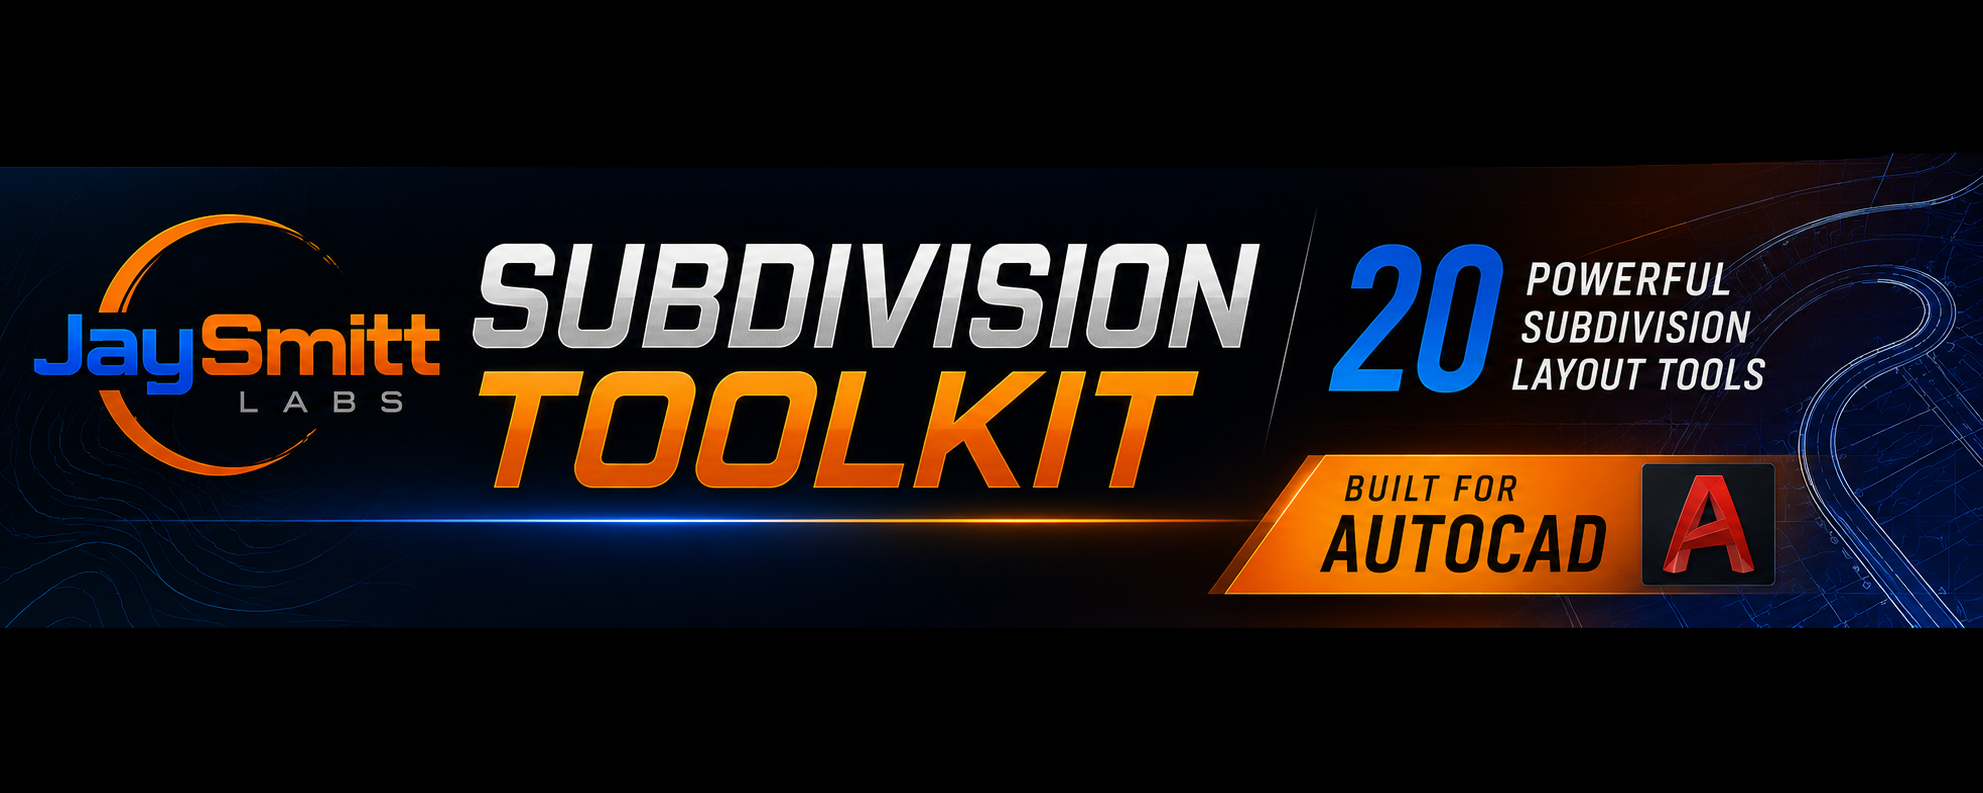
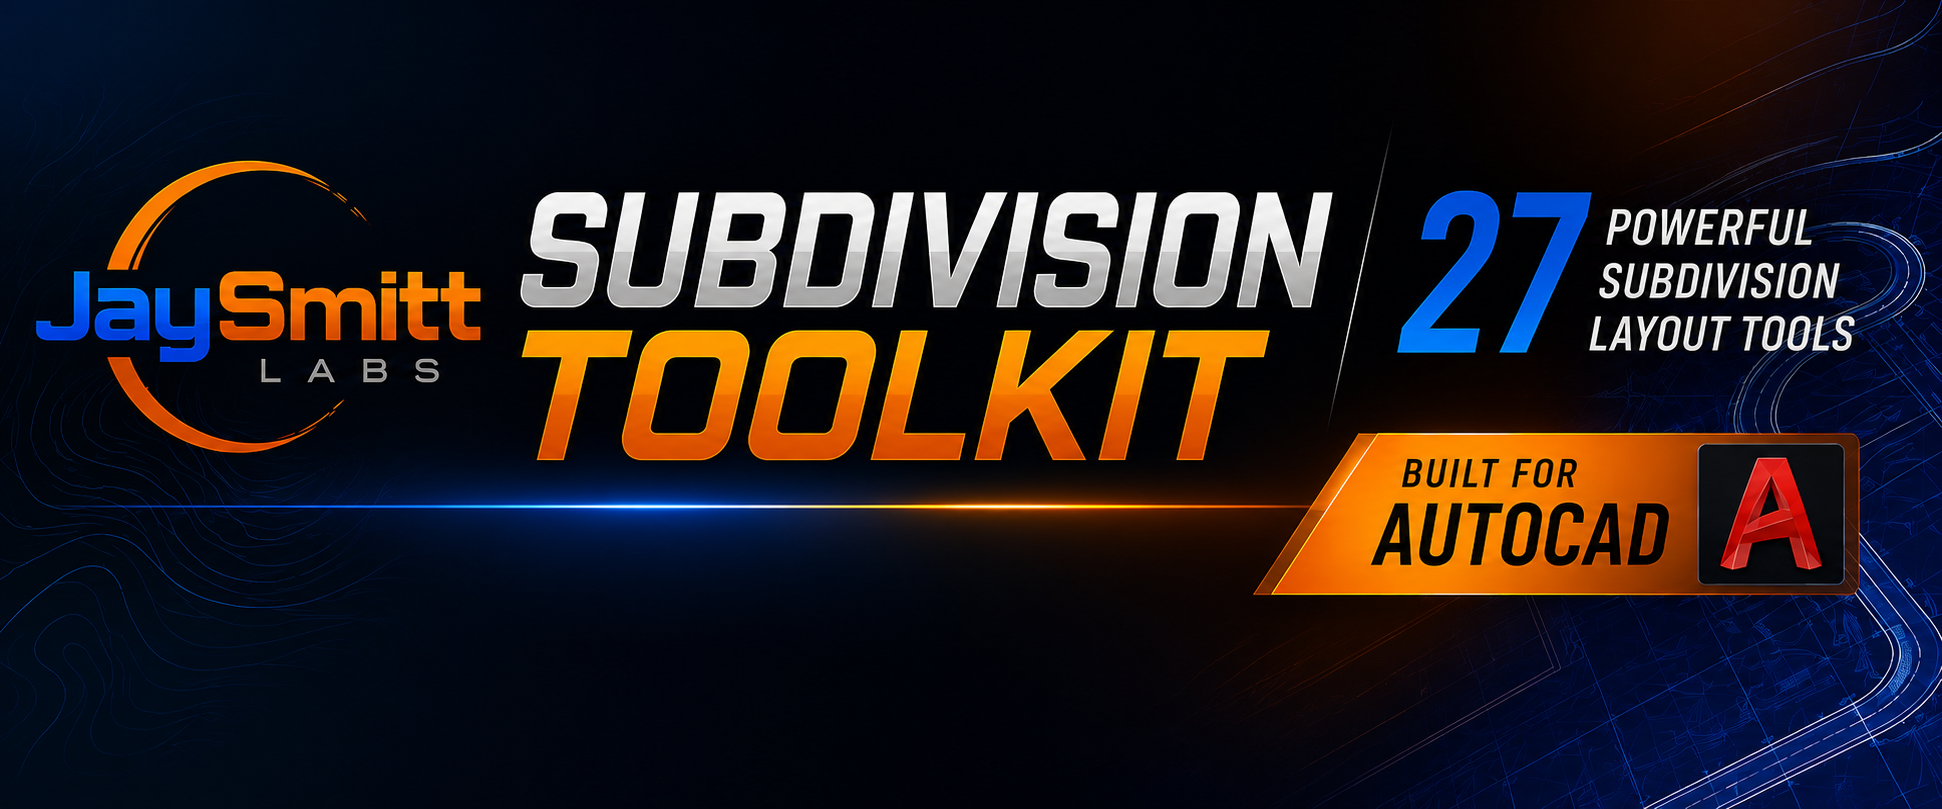
Add files via upload

diff --git a/subdivision-toolkit.html b/subdivision-toolkit.html
@@ -4,7 +4,7 @@
 <meta charset="UTF-8">
 <meta name="viewport" content="width=device-width, initial-scale=1.0">
 <title>Subdivision Toolkit for AutoCAD — JaySmitt Labs</title>
-<meta name="description" content="Subdivision Toolkit by JaySmitt Labs — 20 powerful subdivision layout tools built for AutoCAD by a professional civil operator. Automate lot layout, road centerlines, labeling, and more.">
+<meta name="description" content="Subdivision Toolkit by JaySmitt Labs — 27 powerful subdivision layout tools built for AutoCAD by a professional civil operator. Automate lot layout, road centerlines, labeling, and more.">
 <style>
   * { margin: 0; padding: 0; box-sizing: border-box; }
   :root {
@@ -62,6 +62,7 @@
   .tool { background: var(--card); border: 1px solid var(--line); border-radius: 12px; padding: 16px 16px; }
   .tool .n { color: var(--orange); font-weight: 800; font-size: 13px; }
   .tool .name { font-weight: 650; margin-top: 4px; font-size: 15px; }
+  .tool .desc { color: #cdd8e8; font-size: 12.5px; margin-top: 6px; line-height: 1.45; }
   .tool .cat { color: var(--muted); font-size: 12px; margin-top: 6px; letter-spacing: .3px; text-transform: uppercase; }
   .note { text-align: center; color: var(--muted); font-size: 13px; font-style: italic; margin-top: 16px; }
 
@@ -111,12 +112,12 @@
 
     <!-- HERO -->
     <div class="hero">
-      <img src="subdivision_toolkit_hero.png" alt="JaySmitt Labs Subdivision Toolkit — 20 powerful subdivision layout tools, built for AutoCAD">
+      <img src="subdivision_toolkit_hero.png" alt="JaySmitt Labs Subdivision Toolkit — 27 powerful subdivision layout tools, built for AutoCAD">
       <div class="kicker">Built for AutoCAD</div>
       <h1>Subdivision <span class="accent">Toolkit</span></h1>
-      <p class="lede">Twenty powerful layout tools that turn hours of civil subdivision drafting into a few clicks — built by a professional AutoCAD operator, for professional AutoCAD operators.</p>
+      <p class="lede">Twenty-seven powerful layout tools that turn hours of civil subdivision drafting into a few clicks — built by a professional AutoCAD operator, for professional AutoCAD operators.</p>
       <div class="cta-row">
-        <a class="btn btn-primary" href="#pricing">Start your subscription</a>
+        <a class="btn btn-primary" href="#pricing">Get it Now</a>
         <a class="btn btn-ghost" href="#tools">Explore the tools</a>
       </div>
     </div>
@@ -132,32 +133,35 @@
   <!-- TOOLS -->
   <section id="tools">
     <div class="wrap">
-      <div class="section-title">20 tools, one toolkit</div>
+      <div class="section-title">27 tools, one toolkit</div>
       <div class="section-sub">Everything the subdivision workflow needs, in one loadable add-in.</div>
-      <!-- PLACEHOLDER TOOL NAMES — Smitt to replace with the real 20 command names/descriptions -->
       <div class="grid">
-        <div class="tool"><div class="n">01</div><div class="name">Auto Lot Layout</div><div class="cat">Lots &amp; Parcels</div></div>
-        <div class="tool"><div class="n">02</div><div class="name">Lot Area Calculator</div><div class="cat">Lots &amp; Parcels</div></div>
-        <div class="tool"><div class="n">03</div><div class="name">Frontage Divider</div><div class="cat">Lots &amp; Parcels</div></div>
-        <div class="tool"><div class="n">04</div><div class="name">Setback Generator</div><div class="cat">Lots &amp; Parcels</div></div>
-        <div class="tool"><div class="n">05</div><div class="name">Corner Lot Adjuster</div><div class="cat">Lots &amp; Parcels</div></div>
-        <div class="tool"><div class="n">06</div><div class="name">Centerline Creator</div><div class="cat">Roads &amp; Alignment</div></div>
-        <div class="tool"><div class="n">07</div><div class="name">Right-of-Way Offset</div><div class="cat">Roads &amp; Alignment</div></div>
-        <div class="tool"><div class="n">08</div><div class="name">Cul-de-sac Builder</div><div class="cat">Roads &amp; Alignment</div></div>
-        <div class="tool"><div class="n">09</div><div class="name">Curve &amp; Tangent Labeler</div><div class="cat">Roads &amp; Alignment</div></div>
-        <div class="tool"><div class="n">10</div><div class="name">Station Marker</div><div class="cat">Roads &amp; Alignment</div></div>
-        <div class="tool"><div class="n">11</div><div class="name">Easement Drafter</div><div class="cat">Grading &amp; Utilities</div></div>
-        <div class="tool"><div class="n">12</div><div class="name">Utility Layout Assistant</div><div class="cat">Grading &amp; Utilities</div></div>
-        <div class="tool"><div class="n">13</div><div class="name">Drainage Arrow Tool</div><div class="cat">Grading &amp; Utilities</div></div>
-        <div class="tool"><div class="n">14</div><div class="name">Contour Labeler</div><div class="cat">Grading &amp; Utilities</div></div>
-        <div class="tool"><div class="n">15</div><div class="name">Auto Lot Numbering</div><div class="cat">Annotation &amp; Output</div></div>
-        <div class="tool"><div class="n">16</div><div class="name">Bearing &amp; Distance Labeler</div><div class="cat">Annotation &amp; Output</div></div>
-        <div class="tool"><div class="n">17</div><div class="name">Legal Description Generator</div><div class="cat">Annotation &amp; Output</div></div>
-        <div class="tool"><div class="n">18</div><div class="name">Area Table Builder</div><div class="cat">Annotation &amp; Output</div></div>
-        <div class="tool"><div class="n">19</div><div class="name">Sheet Setup Automator</div><div class="cat">Annotation &amp; Output</div></div>
-        <div class="tool"><div class="n">20</div><div class="name">Batch Plot Helper</div><div class="cat">Annotation &amp; Output</div></div>
+        <div class="tool"><div class="n">01</div><div class="name">PerimeterRoad</div><div class="desc">Draws the complete road around your parcel boundary.</div><div class="cat">Roads &amp; Alignment</div></div>
+        <div class="tool"><div class="n">02</div><div class="name">CrossRoads</div><div class="desc">Fills the interior with a street grid at block spacing.</div><div class="cat">Roads &amp; Alignment</div></div>
+        <div class="tool"><div class="n">03</div><div class="name">CrossRoadsRad</div><div class="desc">Radial version of CrossRoads — streets fan from a focus point.</div><div class="cat">Roads &amp; Alignment</div></div>
+        <div class="tool"><div class="n">04</div><div class="name">DrawRoad</div><div class="desc">One road between two clicks; tees into a street where the click lands.</div><div class="cat">Roads &amp; Alignment</div></div>
+        <div class="tool"><div class="n">05</div><div class="name">DrawThruRoad</div><div class="desc">One road through multiple streets — 4-way at each crossing, tees at the ends.</div><div class="cat">Roads &amp; Alignment</div></div>
+        <div class="tool"><div class="n">06</div><div class="name">Knuckle</div><div class="desc">Outside-corner bulb at a street corner (radius auto = ROW width).</div><div class="cat">Roads &amp; Alignment</div></div>
+        <div class="tool"><div class="n">07</div><div class="name">Culdesac</div><div class="desc">End-of-street bulb (radius auto = ROW width).</div><div class="cat">Roads &amp; Alignment</div></div>
+        <div class="tool"><div class="n">08</div><div class="name">Elbow</div><div class="desc">Bends a street through a smooth curve at your Elbow CL radius.</div><div class="cat">Roads &amp; Alignment</div></div>
+        <div class="tool"><div class="n">09</div><div class="name">Boulevard</div><div class="desc">Divided road with capped median segments; 4-ways at crossings.</div><div class="cat">Roads &amp; Alignment</div></div>
+        <div class="tool"><div class="n">10</div><div class="name">RoundAbout</div><div class="desc">Ring road plus four approach roads, with crossings and tees.</div><div class="cat">Roads &amp; Alignment</div></div>
+        <div class="tool"><div class="n">11</div><div class="name">DrawRoadCircle</div><div class="desc">Full circle road from one radius, plus concentric rings at 2× lot depth.</div><div class="cat">Roads &amp; Alignment</div></div>
+        <div class="tool"><div class="n">12</div><div class="name">CurveRoad</div><div class="desc">Draws a curved road as concentric arcs.</div><div class="cat">Roads &amp; Alignment</div></div>
+        <div class="tool"><div class="n">13</div><div class="name">3-WayCross</div><div class="desc">Manually builds one tee intersection between existing streets.</div><div class="cat">Roads &amp; Alignment</div></div>
+        <div class="tool"><div class="n">14</div><div class="name">4-WayCross</div><div class="desc">Manually builds one full crossing between existing streets.</div><div class="cat">Roads &amp; Alignment</div></div>
+        <div class="tool"><div class="n">15</div><div class="name">ClearRoad</div><div class="desc">Removes a road cleanly for redrawing.</div><div class="cat">Roads &amp; Alignment</div></div>
+        <div class="tool"><div class="n">16</div><div class="name">Lots</div><div class="desc">The division engine — splits block frontages into lots at your lot width.</div><div class="cat">Lots &amp; Parcels</div></div>
+        <div class="tool"><div class="n">17</div><div class="name">LotsAcre</div><div class="desc">Divides frontage by target acreage instead of width.</div><div class="cat">Lots &amp; Parcels</div></div>
+        <div class="tool"><div class="n">18</div><div class="name">ArcLots</div><div class="desc">Divides lots along a curved (arc) frontage.</div><div class="cat">Lots &amp; Parcels</div></div>
+        <div class="tool"><div class="n">19</div><div class="name">ArcLotsAcre</div><div class="desc">Acreage division along an arc.</div><div class="cat">Lots &amp; Parcels</div></div>
+        <div class="tool"><div class="n">20</div><div class="name">LotDivide</div><div class="desc">Splits a single lot after the main division pass.</div><div class="cat">Lots &amp; Parcels</div></div>
+        <div class="tool"><div class="n">21</div><div class="name">Lot Numbers (IncArrayD)</div><div class="desc">Places incrementing lot numbers along a run.</div><div class="cat">Lots &amp; Parcels</div></div>
+        <div class="tool"><div class="n">22</div><div class="name">Total Lots</div><div class="desc">Counts the lots and reports the total.</div><div class="cat">Lots &amp; Parcels</div></div>
+        <div class="tool"><div class="n">23</div><div class="name">Distances</div><div class="desc">Labels segment lengths on selected lines.</div><div class="cat">Annotation</div></div>
+        <div class="tool"><div class="n">24</div><div class="name">Meets &amp; Bounds</div><div class="desc">Bearing-and-distance callouts along boundary or lot lines.</div><div class="cat">Annotation</div></div>
       </div>
-      <p class="note">Sample tool names shown for layout — Stephen to finalize the real 20 command names and one-line descriptions.</p>
+      <p class="note">Every command loads from a single AutoCAD add-in — no per-tool setup.</p>
     </div>
   </section>
 
@@ -166,9 +170,9 @@
     <div class="wrap">
       <div class="section-title">Up and running in minutes</div>
       <div class="steps">
-        <div class="step"><div class="num">1</div><h3>Subscribe</h3><p>Choose a plan and check out. You'll get your download and a personal license key by email.</p></div>
-        <div class="step"><div class="num">2</div><h3>Install</h3><p>Load the toolkit into AutoCAD once. It adds all 20 commands to your workspace.</p></div>
-        <div class="step"><div class="num">3</div><h3>Activate &amp; draw</h3><p>Enter your key to activate. Your subscription keeps the toolkit unlocked and updated.</p></div>
+        <div class="step"><div class="num">1</div><h3>Buy once</h3><p>Check out with a single payment. You'll get your download and a personal license key by email.</p></div>
+        <div class="step"><div class="num">2</div><h3>Install</h3><p>Load the toolkit into AutoCAD once. It adds every command to your workspace.</p></div>
+        <div class="step"><div class="num">3</div><h3>Activate &amp; draw</h3><p>Enter your key to activate. It's yours to keep — unlocked, with free updates.</p></div>
       </div>
     </div>
   </section>
@@ -176,23 +180,21 @@
   <!-- PRICING -->
   <section id="pricing">
     <div class="wrap">
-      <div class="section-title">Simple subscription</div>
-      <div class="section-sub">One plan. Every tool. Cancel anytime.</div>
-      <!-- PLACEHOLDER PRICE — set the real monthly/annual price before launch -->
+      <div class="section-title">One-time purchase</div>
+      <div class="section-sub">One price. Every tool. Yours to keep.</div>
       <div class="price-card">
-        <div class="plan">Subdivision Toolkit — Pro</div>
-        <div class="amount">$29<span>/month</span></div>
-        <div class="annual">or $290/year — two months free</div>
+        <div class="plan">Subdivision Toolkit</div>
+        <div class="amount">$79<span>&nbsp;one-time</span></div>
+        <div class="annual">One payment — no subscription, no recurring fees.</div>
         <ul class="plist">
-          <li>All 20 subdivision tools</li>
+          <li>Every subdivision tool included</li>
           <li>Free updates &amp; new tools</li>
           <li>Email support from the builder</li>
           <li>Use on your work machine</li>
-          <li>Cancel anytime</li>
+          <li>Yours to keep — no subscription</li>
         </ul>
-        <!-- PLACEHOLDER CHECKOUT — wire this to your Paddle / Lemon Squeezy / Stripe checkout link -->
-        <a class="btn btn-primary" href="mailto:support@jaysmittlabs.com?subject=Subdivision%20Toolkit%20subscription">Get the toolkit</a>
-        <div class="fine">Prices shown are placeholders for review. Secure checkout coming soon.</div>
+          <a class="btn btn-primary" href="mailto:support@jaysmittlabs.com?subject=Subdivision%20Toolkit%20-%20%2479%20one-time%20purchase">Get it Now</a>
+        <div class="fine">Secure online checkout is coming soon — for now, tap Get it Now to purchase by email.</div>
       </div>
     </div>
   </section>
@@ -203,8 +205,8 @@
       <div class="section-title">Questions</div>
       <div class="faq">
         <div class="qa"><h4>What versions of AutoCAD does it work with?</h4><p>The toolkit runs on AutoCAD for Windows. [Confirm the exact supported versions — e.g. AutoCAD 20XX and newer, and whether AutoCAD LT is supported.]</p></div>
-        <div class="qa"><h4>How does the license work?</h4><p>Your subscription comes with a license key that activates the toolkit on your machine. As long as your subscription is active, every tool stays unlocked and you get updates. If you cancel, the tools simply stop loading.</p></div>
-        <div class="qa"><h4>Is it a one-time purchase?</h4><p>It's a subscription so we can keep improving the tools and add new ones over time. You can cancel whenever you like and keep using it through the end of your billing period.</p></div>
+        <div class="qa"><h4>How does the license work?</h4><p>Your purchase comes with a license key that activates the toolkit on your machine. Once activated, every tool stays unlocked and you receive free updates — it's yours to keep.</p></div>
+        <div class="qa"><h4>Is it a one-time purchase?</h4><p>Yes. The Subdivision Toolkit is a one-time purchase of $79 — no subscription and no recurring fees. You own it, with free updates as we add and improve tools.</p></div>
         <div class="qa"><h4>Can I get a refund or a trial?</h4><p>[Decide your trial/refund policy — e.g. a free trial period or a 14-day money-back guarantee — and state it here.]</p></div>
       </div>
     </div>
